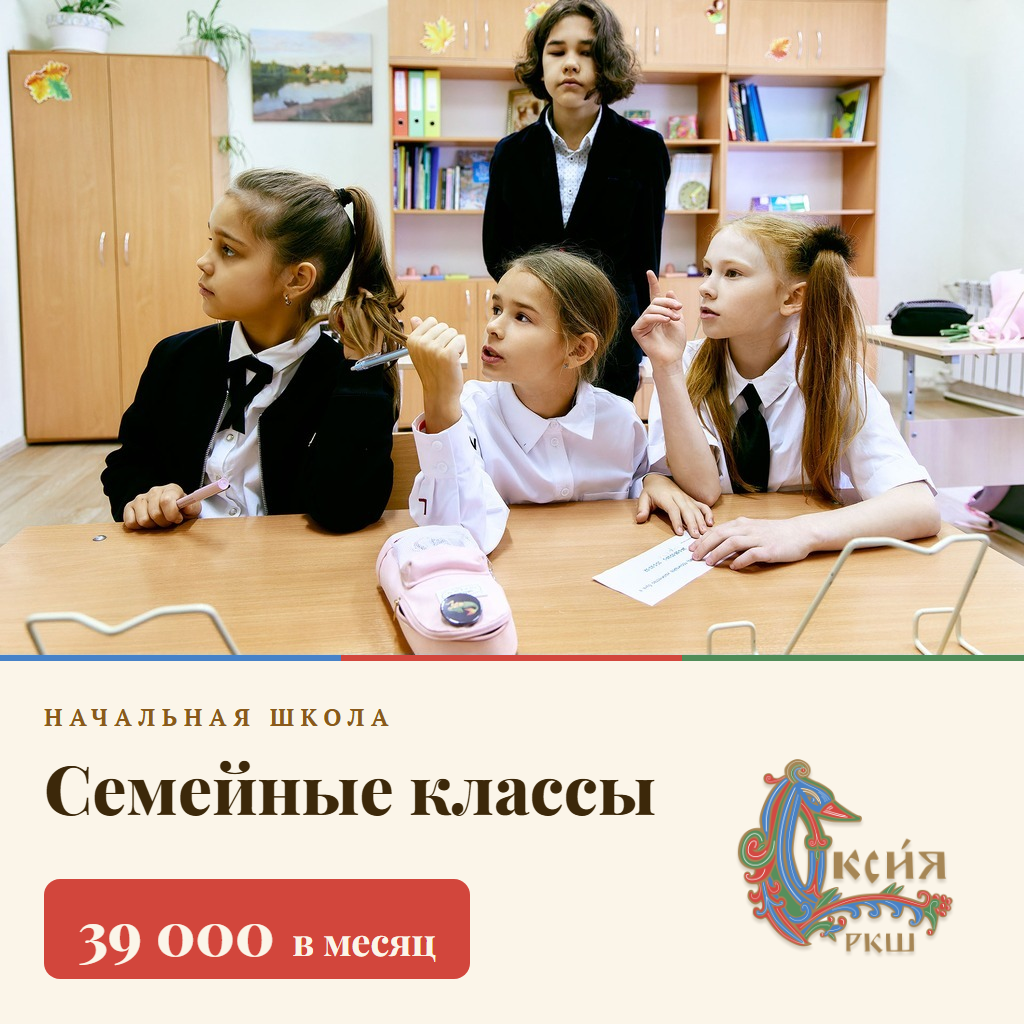
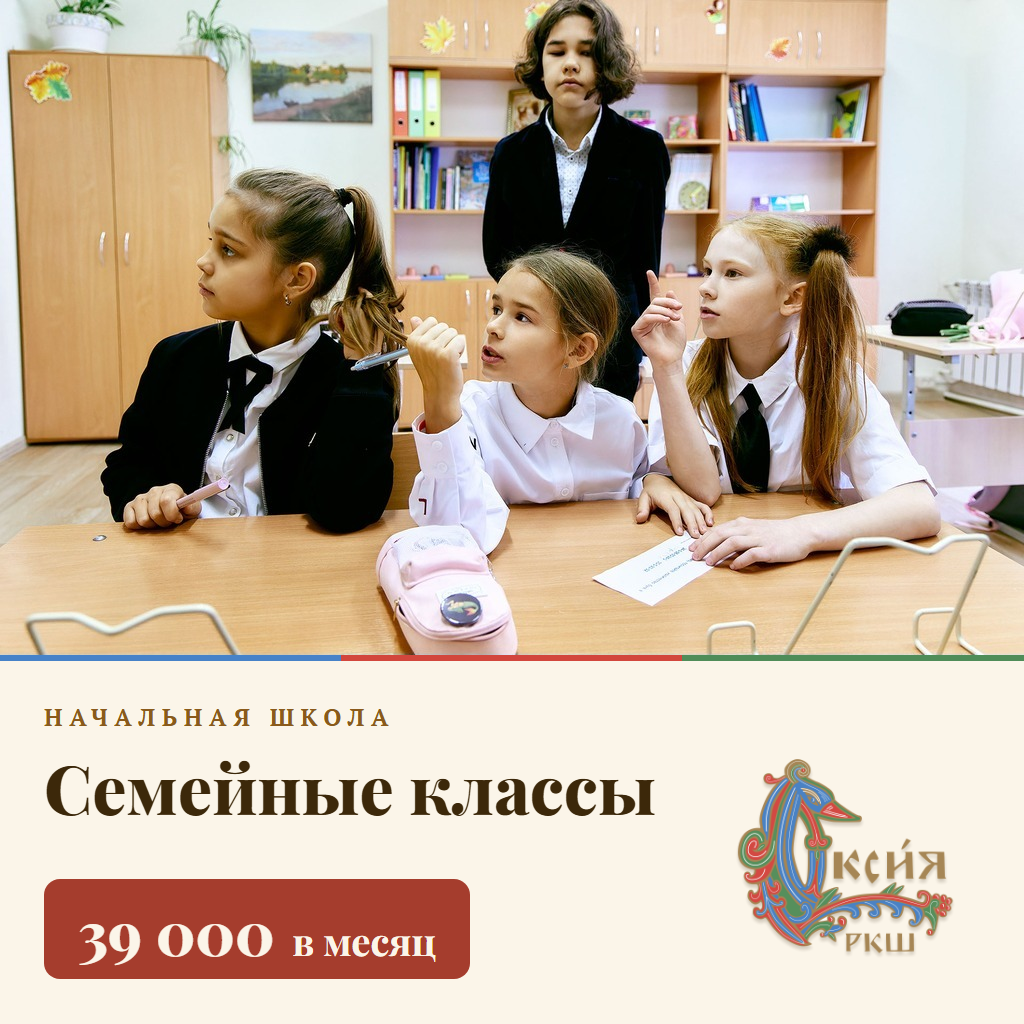
6 новых карточек товаров в едином стиле с историями
Подготовка к школе (4/5/6-7 лет), почерк и каллиграфия, лепка из глины,
творческое чтение — с реальными фото, ротацией цвета (бордо/синий/зелёный)
и baseline-выравниванием цены, как в финальной карточке. Карточка «Начальная
школа» тоже переведена на приглушённый бордо для единообразия. Логопед,
репетитор и шахматы не сделаны — нет подходящих фото в архиве.

Changed region(s): [[0.0312, 0.8438, 0.4688, 0.9688]]

diff --git a/story-preview/_build/card-multi.html b/story-preview/_build/card-multi.html
@@ -13,7 +13,9 @@
     --blue:#4682C8;
     --red:#D2463C;
     --green:#4F8C58;
+    --blue-muted:#43678F;
     --red-muted:#A53D2D;
+    --green-muted:#496E41;
   }
   *{margin:0;padding:0;box-sizing:border-box;}
   html,body{width:1024px;height:1024px;overflow:hidden;}
@@ -38,7 +40,8 @@
   .row{display:flex;align-items:flex-end;justify-content:space-between;margin-top:30px;
     position:relative;bottom:74px;}
 
-  .price{display:inline-flex;align-items:baseline;justify-content:center;gap:18px;background:var(--red-muted);
+  .price{display:inline-flex;align-items:baseline;justify-content:center;gap:18px;
+    background:var(--accent, var(--red-muted));
     color:var(--cream);border-radius:16px;padding:22px 34px 18px;line-height:1;
     font-family:"Playfair Display",serif;font-weight:800;font-size:46px;}
   .price .num{font-size:60px;line-height:1;}
@@ -49,15 +52,43 @@
 </style>
 </head>
 <body>
-  <img class="photo" src="card-photo-01.jpg" alt="">
+  <img class="photo" id="photo" src="" alt="">
   <div class="stripe"></div>
   <div class="band">
-    <div class="kick">Начальная школа</div>
-    <div class="title">Семейные классы</div>
+    <div class="kick" id="kick"></div>
+    <div class="title" id="title"></div>
     <div class="row">
-      <div class="price"><span class="num">39 000</span><span class="per">в месяц</span></div>
+      <div class="price" id="price"><span class="num" id="num"></span><span class="per" id="per"></span></div>
       <img class="logo" src="oksia-logo.png" alt="Оксия">
     </div>
   </div>
+
+<script>
+const S = {
+1:{ photo:'photo-podg-4.jpg', kick:'Подготовка к школе', title:'4 года',
+    num:'6 000', per:'в месяц', accent:'var(--blue-muted)' },
+2:{ photo:'photo-podg-5.jpg', kick:'Подготовка к школе', title:'5 лет',
+    num:'8 800', per:'в месяц', accent:'var(--green-muted)' },
+3:{ photo:'photo-podg-67.jpg', kick:'Подготовка к школе', title:'6-7 лет',
+    num:'8 800', per:'в месяц', accent:'var(--red-muted)' },
+4:{ photo:'photo-kalligrafiya.jpg', kick:'Каллиграфия', title:'Почерк и каллиграфия', titleSize:'58px',
+    num:'9 900', per:'курс', accent:'var(--blue-muted)' },
+5:{ photo:'photo-lepka.jpg', kick:'Творческие занятия', title:'Лепка из глины',
+    num:'1 100', per:'занятие', accent:'var(--green-muted)' },
+6:{ photo:'photo-chtenie.jpg', kick:'Творческие занятия', title:'Творческое чтение',
+    num:'1 100', per:'занятие', accent:'var(--red-muted)' }
+};
+
+const n = parseInt(new URLSearchParams(location.search).get('n')||'1',10);
+const s = S[n];
+document.getElementById('photo').src = s.photo;
+document.getElementById('kick').textContent = s.kick;
+const titleEl = document.getElementById('title');
+titleEl.textContent = s.title;
+if(s.titleSize) titleEl.style.fontSize = s.titleSize;
+document.getElementById('num').textContent = s.num;
+document.getElementById('per').textContent = s.per;
+document.getElementById('price').style.setProperty('--accent', s.accent);
+</script>
 </body>
 </html>

diff --git a/card-preview/index.html b/card-preview/index.html
@@ -17,17 +17,16 @@
   .card img{ display:block; width:100%; height:auto; }
   .grid{ display:grid; grid-template-columns:repeat(3,1fr); gap:12px; }
   @media (max-width:480px){ .grid{ grid-template-columns:repeat(2,1fr); } }
+  .note{ background:#FFF; border:1px solid var(--border); border-radius:10px; padding:16px 18px; margin-top:20px; }
+  .note b{ color:var(--bronze); }
 </style>
 </head>
 <body>
 <div class="wrap">
   <h1>Новый дизайн</h1>
-  <p class="lead">Карточка товара — финал. Обложки всех 6 историй — на согласование, в том же стиле.</p>
+  <p class="lead">Обложки историй и карточки товаров — в одном стиле, на согласование.</p>
 
-  <h2>Товар — Начальная школа (финал)</h2>
-  <div class="card"><img src="card-sample-01.png?v=8" alt="Карточка товара"></div>
-
-  <h2>Обложки историй — на согласование</h2>
+  <h2>Обложки историй</h2>
   <div class="grid">
     <div class="card"><img src="cover-01.png?v=2" alt="Подготовка к школе"></div>
     <div class="card"><img src="story-sample-01-bright.png?v=8" alt="Семейные классы"></div>
@@ -35,6 +34,21 @@
     <div class="card"><img src="cover-04.png?v=2" alt="Педагоги, которые выбрали РКШ"></div>
     <div class="card"><img src="cover-05.png?v=3" alt="День идёт по расписанию"></div>
     <div class="card"><img src="cover-06.png?v=2" alt="Три способа связаться"></div>
+  </div>
+
+  <h2>Карточки товаров</h2>
+  <div class="grid">
+    <div class="card"><img src="card-sample-01.png?v=9" alt="Начальная школа, семейные классы"></div>
+    <div class="card"><img src="card-podg-4.png" alt="Подготовка к школе, 4 года"></div>
+    <div class="card"><img src="card-podg-5.png" alt="Подготовка к школе, 5 лет"></div>
+    <div class="card"><img src="card-podg-67.png" alt="Подготовка к школе, 6-7 лет"></div>
+    <div class="card"><img src="card-kalligrafiya.png" alt="Почерк и каллиграфия"></div>
+    <div class="card"><img src="card-lepka.png" alt="Лепка из глины"></div>
+    <div class="card"><img src="card-chtenie.png" alt="Творческое чтение"></div>
+  </div>
+
+  <div class="note">
+    <p><b>Без фото:</b> для трёх позиций прайса (Логопед, Репетитор для школьника, Шахматы) в имеющемся архиве нет ни одной подходящей фотографии — карточки для них не сделаны, чтобы не подставлять случайный или сгенерированный кадр. Нужны реальные фото с этих занятий.</p>
   </div>
 </div>
 </body>
